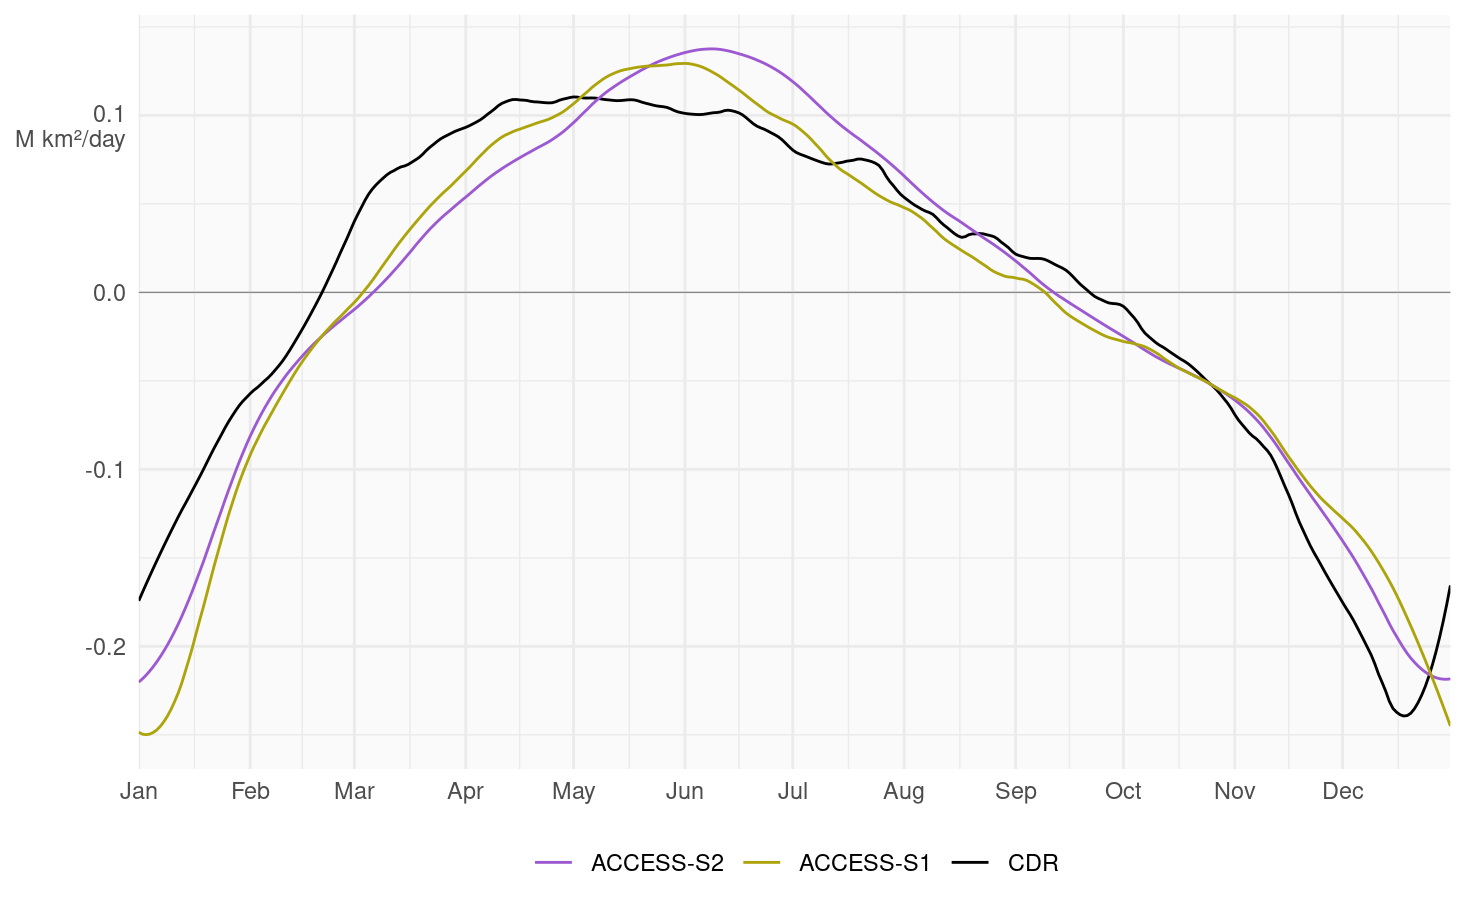
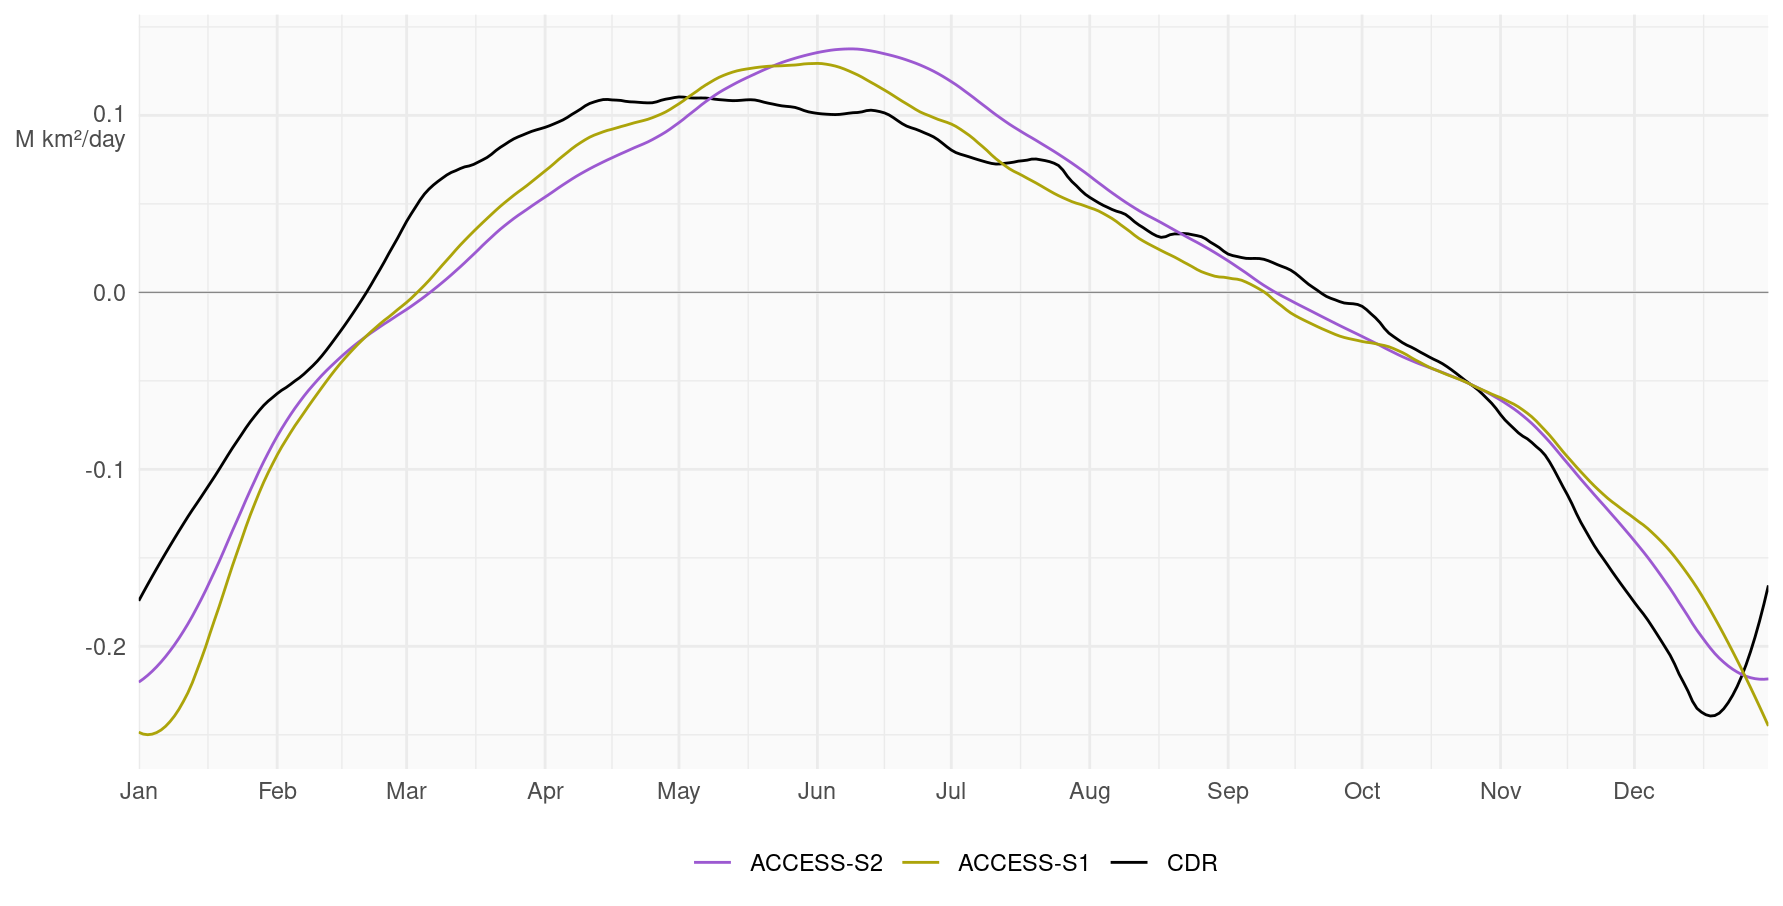
Fiigures

diff --git a/analysis/poster_ncar/presentation_figures.html b/analysis/poster_ncar/presentation_figures.html
@@ -323,7 +323,7 @@ extent_daily |&gt;
   scale_color_models</code></pre>
 <pre><code>## `geom_smooth()` using method = &#39;loess&#39; and formula = &#39;y ~ x&#39;
 ## `geom_smooth()` using method = &#39;loess&#39; and formula = &#39;y ~ x&#39;</code></pre>
-<p><img src="presentation_figures_files/figure-html/extent-delta-1.png" width="732.850393700787" /></p>
+<p><img src="presentation_figures_files/figure-html/extent-delta-1.png" width="891.590551181102" /></p>
 <pre class="r"><code>zeropad &lt;- function(x, n = 2) formatC(x, width = 2, flag = &quot;0&quot;)
 monnb &lt;- function(d) { lt &lt;- as.POSIXlt(as.Date(d, origin=&quot;1900-01-01&quot;)); 
 lt$year*12 + lt$mon } 
@@ -378,7 +378,7 @@ hindcast_clim[, month_diff := month_diff(forecast_month[1], month[1]), by = .(fo
                       breaks = AnchorBreaks(binwidth = 0.1, exclude = 0)) +
     # geom_contour2(aes(z = aice - obs), breaks = AnchorBreaks(binwidth = 0.1, exclude = 0),
     #               linewidth = 0.1) +
-    scale_fill_divergent_discretised(paste0(which_version, &quot; bias at leadtime &quot;, which_lead, &quot; months&quot;),
+    scale_fill_divergent_discretised(paste0(which_version, &quot; bias at &quot;, which_lead, &quot; months at lead time&quot;),
                                      low = trans_pink,
                                      high = trans_blue) +
     geomcoord_antarctica +
@@ -389,18 +389,21 @@ hindcast_clim[, month_diff := month_diff(forecast_month[1], month[1]), by = .(fo
     wide_legend +
     tag_facets()
 }</code></pre>
+<pre class="r"><code>width_bias &lt;- 22.15/cm
+height_bias &lt;- 12.3/cm</code></pre>
 <pre class="r"><code>hindcast_clim |&gt; 
   bias_plot(&quot;S2&quot;, 0)</code></pre>
-<p><img src="presentation_figures_files/figure-html/unnamed-chunk-3-1.png" width="837.165354330709" /></p>
+<p><img src="presentation_figures_files/figure-html/bias_S2_0-1.png" width="837.165354330709" /></p>
 <pre class="r"><code>hindcast_clim |&gt; 
   bias_plot(&quot;S1&quot;, 0)</code></pre>
-<p><img src="presentation_figures_files/figure-html/unnamed-chunk-4-1.png" width="672" /></p>
+<p><img src="presentation_figures_files/figure-html/bias_S1_0-1.png" width="837.165354330709" /></p>
+<p>lead</p>
 <pre class="r"><code>hindcast_clim |&gt; 
   bias_plot(&quot;S2&quot;, 6)</code></pre>
-<p><img src="presentation_figures_files/figure-html/unnamed-chunk-5-1.png" width="672" /></p>
+<p><img src="presentation_figures_files/figure-html/bias_S2_6-1.png" width="837.165354330709" /></p>
 <pre class="r"><code>hindcast_clim |&gt; 
   bias_plot(&quot;S1&quot;, 6)</code></pre>
-<p><img src="presentation_figures_files/figure-html/unnamed-chunk-6-1.png" width="672" /></p>
+<p><img src="presentation_figures_files/figure-html/bias_S1_6-1.png" width="837.165354330709" /></p>
 </div>
 <div id="anomalies" class="section level3">
 <h3>Anomalies</h3>
@@ -524,10 +527,12 @@ g &lt;- clim_std2 |&gt;
   
   scale_x_continuous(breaks = NULL, expand = c(0, 0)) +
   labs(y = &quot;RMSE&quot;, 
-       x = &quot;Lag&quot;) +
+       x = &quot;Lead time&quot;) +
   scale_color_models +
   scale_fill_models +
   facet_wrap(~ month, labeller = labeller(month = labels_month)) </code></pre>
+<pre class="r"><code>width_errors &lt;- 19.43/cm
+height_errors &lt;- 11.99/cm</code></pre>
 <pre class="rrmse_persistence"><code>g %+% g$data[version != &quot;climatology&quot;]</code></pre>
 <pre class="rrmse_climatology"><code>g %+% g$data[version != &quot;persistence&quot;]</code></pre>
 <pre class="r"><code># ACHTUNG: we have something going on with the 29th of february.
@@ -553,7 +558,7 @@ clim_std2 |&gt;
                      aesthetics = c(&quot;fill&quot;, &quot;color&quot;), guide = &quot;none&quot;) +
   scale_y_continuous(limits = c(0, NA)) +
   geom_vline(xintercept = as.Date(&quot;2001-02-28&quot;))</code></pre>
-<p><img src="presentation_figures_files/figure-html/unnamed-chunk-10-1.png" width="672" /></p>
+<p><img src="presentation_figures_files/figure-html/unnamed-chunk-8-1.png" width="672" /></p>
 <pre class="r"><code>p &lt;- g +
   coord_cartesian(xlim = c(0, 100))
 
@@ -561,7 +566,7 @@ p$layers &lt;- p$layers[-4]
 p</code></pre>
 <pre><code>## Warning: No shared levels found between `names(values)` of the manual scale and the
 ## data&#39;s fill values.</code></pre>
-<p><img src="presentation_figures_files/figure-html/unnamed-chunk-11-1.png" width="734.362204724409" /></p>
+<p><img src="presentation_figures_files/figure-html/error_zoom-1.png" width="734.362204724409" /></p>
 <pre class="r"><code>topo_lonlat &lt;- rcdo::cdo_topo(grid = &quot;r180x90&quot;) |&gt;
   rcdo::cdo_execute(options = c(&quot;-f nc&quot;)) |&gt;
   metR::ReadNetCDF(c(z = &quot;topo&quot;), subset = list(lat = c(-90, -60))) |&gt; 
@@ -623,7 +628,7 @@ rmse_lon_mean |&gt;
   
   scale_y_continuous(breaks = NULL, expand = c(0, 0)) +
   labs(fill = NULL, 
-       y = &quot;Lag&quot;) +
+       y = &quot;Lead time&quot;) +
   wide_legend +
   facet_wrap(~ month, labeller = labeller(month = labels_month)) +
   theme(panel.background = element_blank(), 
@@ -636,99 +641,12 @@ rmse_lon_mean |&gt;
   
   plot_layout(ncol = 1, guides = &quot;collect&quot;, heights = c(10, 1), axes = &quot;collect&quot;)</code></pre>
 <div class="figure">
-<img src="presentation_figures_files/figure-html/fig-rmse_lon-1.png" alt="Meadian difference between RMSE of +S2 forecasts and persistence forecast at longitudinal bands." width="960" />
+<img src="presentation_figures_files/figure-html/fig-rmse_lon-1.png" alt="Meadian difference between RMSE of +S2 forecasts and persistence forecast at longitudinal bands." width="873.070866141732" />
 <p class="caption">
 Meadian difference between RMSE of +S2 forecasts and persistence
 forecast at longitudinal bands.
 </p>
 </div>
-</div>
-<div id="comparison-with-s1" class="section level3">
-<h3>Comparison with S1</h3>
-<pre class="r"><code>t_test &lt;- function(x, y, ...) {
-  
-  test &lt;- t.test(x, y, ...)
-  
-  list(low = test[[&quot;conf.int&quot;]][1],
-       high = test[[&quot;conf.int&quot;]][2], 
-       estimate = -diff(test$estimate), 
-       p.value = test[[&quot;p.value&quot;]]
-  )
-}
-
-max_lag &lt;- errors[version == &quot;S1&quot;, max(lag)]
-
-dif &lt;- errors |&gt; 
-  na.omit() |&gt; 
-  _[obs_dataset == which_dataset] |&gt;
-  _[measure == &quot;iiee&quot;] |&gt; 
-  _[version != &quot;persistence&quot;] |&gt; 
-  _[lag &lt;= max_lag] |&gt; 
-  dcast(time + time_forecast + member + lag ~ version, value.var = &quot;value&quot;) |&gt; 
-  _[, t_test(na.omit(S1), na.omit(S2)), 
-    by = .(lag, month(time_forecast))] |&gt; 
-  _[p.value &gt; 0.01] |&gt; 
-  _[, .SD[which.min(lag)], by = month] |&gt; 
-  _[order(month), .(month, lag)]
-
-labels_month_significant &lt;- setNames(paste0(month.abb, &quot; (&quot;, dif$lag, &quot;)&quot;),
-                                     1:12)</code></pre>
-<pre class="r"><code>errors |&gt; 
-  _[measure == &quot;iiee&quot;] |&gt;
-  _[obs_dataset == which_dataset] |&gt;
-  # _[, month := lubridate::month(time_forecast, label = TRUE)]  |&gt; 
-  _[, median_ci(value), 
-    by = .(lag, version, measure, obs_dataset, month(time_forecast))] |&gt; 
-  ggplot(aes(lag, mid)) +
-  
-  geom_vline(data = month_from_lag(1, 1), aes(xintercept = lag), 
-             colour = &quot;gray50&quot;, linewidth = 0.1) +
-  
-  geom_text(data = month_from_lag(15, 2), aes(y = Inf, label = month2), 
-            size = 2.5,
-            vjust = 1) +
-  
-  geom_text(data = month_from_lag(1, 2), aes(y = -Inf, label = lag), 
-            size = 2.5,
-            vjust = 0) +
-  
-  geom_ribbon(aes(ymin = low, 
-                  ymax = high, 
-                  color = version, 
-                  fill = version), alpha = 0.1) +
-  geom_line(aes(color = version), linewidth = 1) +
-  
-  
-  # geom_errorbar(data = \(x) x[dif, on = .NATURAL][version == &quot;S1&quot;], 
-  #              aes(x = lag, 
-  #                  ymin = mid - (high - low), ymax = mid + (high - low))) +
-  
-  # geom_point(data = \(x) x[dif, on = .NATURAL][version == &quot;S1&quot;],
-  # aes(lag, mid), size = 3, shape = 21) +
-  
-  
-  scale_y_continuous(labels = labels_extent) +
-  scale_x_continuous(breaks = NULL, expand = c(0, 0)) +
-  scale_color_models +
-  scale_fill_models +
-  labs(y = NULL, 
-       x = &quot;Lag&quot;) +
-  #   scale_color_models +
-  #   scale_fill_models +
-  facet_wrap(~ month, labeller = labeller(month = labels_month_significant)) </code></pre>
-<div class="figure">
-<img src="presentation_figures_files/figure-html/fig-iiee-1.png" alt="Median and 95% coverage of Integrated Ice Edge Error as a function of forecast lag for all forecast initialised on the first of each month for +S1 and +S2 hindcasts. For each month, the number in parenthesis indicates the minimum lag at which the the mean error of each model is not statistically significant at a 1% level using a two-sisded t-test." width="672" />
-<p class="caption">
-Median and 95% coverage of Integrated Ice Edge Error as a function of
-forecast lag for all forecast initialised on the first of each month for
-+S1 and +S2 hindcasts. For each month, the number in parenthesis
-indicates the minimum lag at which the the mean error of each model is
-not statistically significant at a 1% level using a two-sisded t-test.
-</p>
-</div>
-<pre class="r"><code>last_plot() +
-  coord_cartesian(xlim = c(0, 100))</code></pre>
-<p><img src="presentation_figures_files/figure-html/unnamed-chunk-14-1.png" width="672" /></p>
 </div>
 
 
